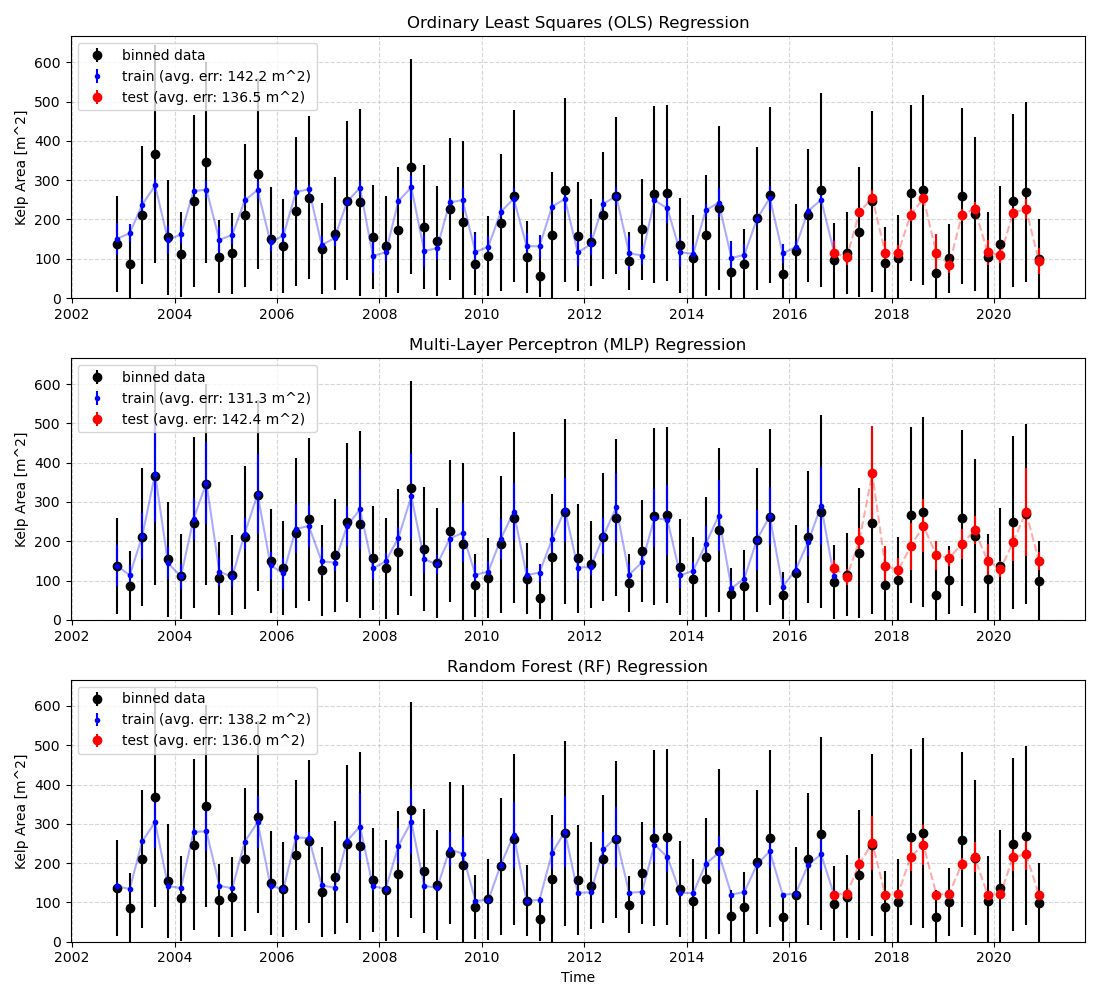
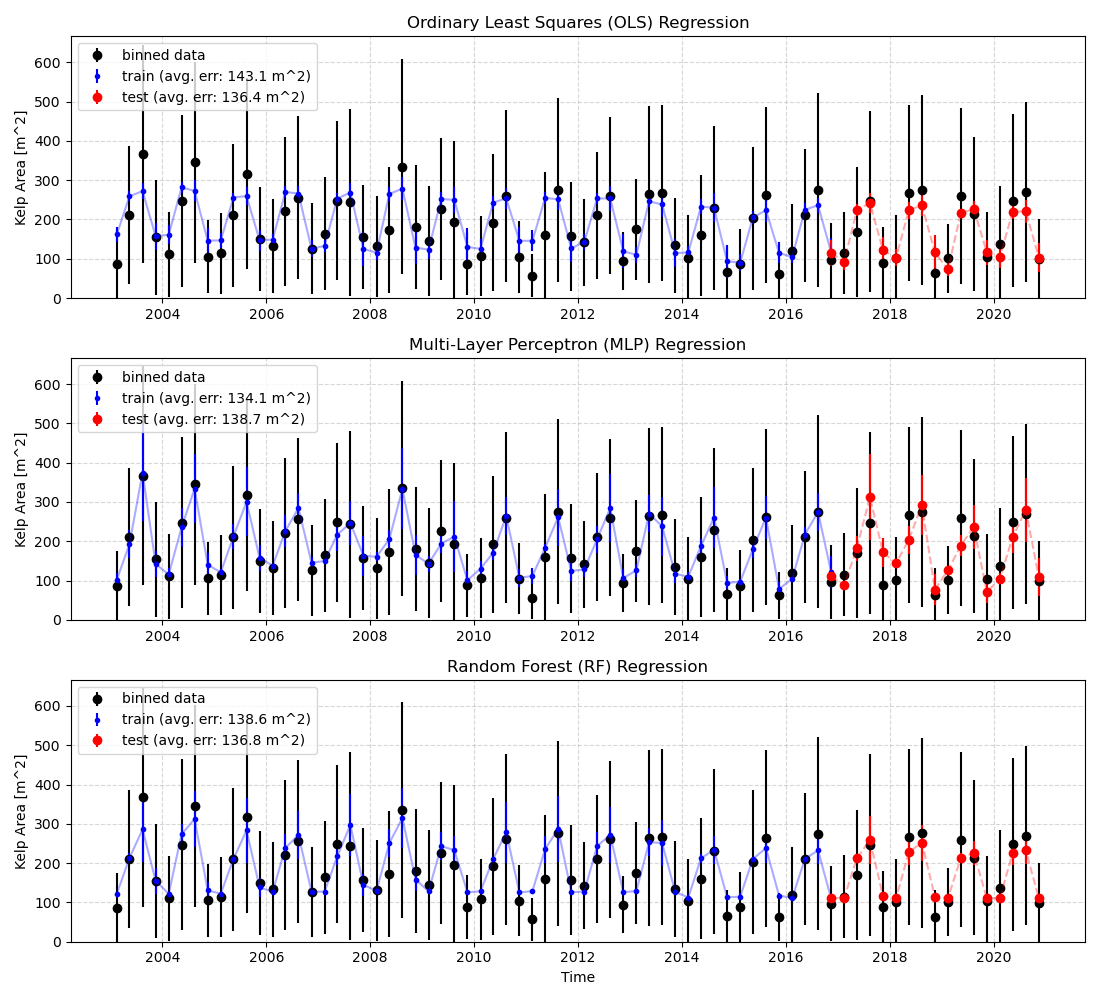
4 feature regressor

diff --git a/regressors_train.py b/regressors_train.py
@@ -39,10 +39,11 @@ if __name__ == "__main__":
         #np.cos(2*np.pi*time/365), # -1 - 1
         #data['elevation'],
         data['sunlight'],
-        data['lat'], # 25-45
-        data['lon'], # -130 - -115
-        data['temp'], 
+        #data['lat'], # 25-45
+        #data['lon'], # -130 - -115
+        #data['temp'], 
         data['temp_lag'],
+        data['temp_lag2'],
         np.ones(len(time)) # w_1 * x_1 + w_2 * x_2 + ... + w_n * x_n + b
     ]
 
@@ -50,17 +51,18 @@ if __name__ == "__main__":
         'time',
         #'elevation',
         'sunlight',
-        'lat',
-        'lon',
-        'temp',
+        #'lat',
+        #'lon',
+        #'temp',
         'temp_lag',
+        'temp_lag2',
         'bias'
     ]
 
     X = np.array(features).T
 
     # remove nans
-    nanmask = np.isnan(data['temp_lag']) | np.isnan(data['elevation'])
+    nanmask = np.isnan(data['temp_lag']) | np.isnan(data['elevation']) | np.isnan(data['temp_lag2'])
     X = X[~nanmask]
     y = y[~nanmask]
     time = time[~nanmask]
@@ -112,7 +114,7 @@ if __name__ == "__main__":
     Xp_test = (Xp_test - Xp_test.mean(0)) / Xp_test.std(0)
 
     # create multi-layer perceptron regressor
-    mlp = MLPRegressor(hidden_layer_sizes=(10,10,10), activation='relu', solver='adam', max_iter=60, verbose=True, alpha=0.0001, learning_rate='adaptive')
+    mlp = MLPRegressor(hidden_layer_sizes=(10,10,10), activation='relu', solver='adam', max_iter=50, verbose=True, alpha=0.0001, learning_rate='adaptive')
     y_mlp_train = mlp.fit(Xp_train, y_train).predict(Xp_train)
     abs_err_mlp_train = np.abs(y_train - y_mlp_train).mean()
     print(f"Avg. Absolute Error (MLP) train: {abs_err_mlp_train:.3f} m^2")
@@ -259,5 +261,22 @@ Mutual Information lat: 0.098
 Mutual Information lon: 0.103
 Mutual Information temp: 0.391
 Mutual Information temp_lag: 0.422
+------------------------------------
+
+Less features:
+
+Correlation Coefficient time: -0.042
+Correlation Coefficient sunlight: 0.302
+Correlation Coefficient temp_lag: -0.314
+Correlation Coefficient temp_lag2: -0.172
+Mutual Information time: 0.155
+Mutual Information sunlight: 0.186
+Mutual Information temp_lag: 0.420
+Mutual Information temp_lag2: 0.401
+Feature Importances time: 0.020
+Feature Importances sunlight: 0.702
+Feature Importances temp_lag: 0.194
+Feature Importances temp_lag2: 0.085
     """
+
 

diff --git a/README.md b/README.md
@@ -134,18 +134,33 @@ One thing these tables don't show is the direction of the correction but from th
 
 We test three different regression algorithms to predict the abundance of kelp: ordinary least-squares, multi-layer perceptron and random forest. The regressors are trained using the features from `kelp_metrics.pkl` and the target variable is the abundance of kelp. The regressors are trained using the `regressors_train.py` script.
 
-| Variable | Correlation Coefficient | Mutual Information | Feature Importance |
-| -------- | ----------------------- | ------------------ | ------------------ |
-| Time             |  -0.032 | 0.155 | 0.059 |
-| Elevation [m]    | 0.040   | 0.013 | 0.000 |
-| Sunlight [day]   | 0.304   | 0.184 | 0.739 |
-| Latitude         | 0.116   | 0.098 | 0.000 |
-| Longitude        | -0.164  | 0.103 | 0.004 |
-| Temperature      | 0.005   | 0.391 | 0.000 |
-| Temperature Lag  | -0.313  | 0.422 | 0.198 |
+|                      | Correlation Coefficient | Mutual Information | Feature Importance |
+| -------------------- | ----------------------- | ------------------ | ------------------ |
+| Time                 |  -0.032 | 0.155 | 0.027 |
+| Elevation [m]        | 0.040   | 0.013 | 0.000 |
+| Sunlight [day]       | 0.304   | 0.186 | 0.690 |
+| Latitude             | 0.116   | 0.098 | 0.000 |
+| Longitude            | -0.164  | 0.103 | 0.000 |
+| Temperature          | 0.005   | 0.391 | 0.000 |
+| Temperature Lag      | -0.314  | 0.420 | 0.199 |
+| Temperature Lag 2    | -0.172  | 0.401 | 0.084 |
 
-Even though the parameters individually may be correlated to the amount of kelp, the random forest regression model suggests only the amount of sunlight, temperature from the previous quarter and time are important for making a prediction.
 
+Even though the parameters individually may be correlated to the amount of kelp, the random forest regression model suggests only the amount of sunlight, temperature from the previous quarter and time are important for making a prediction. Making another model with only these features may be more accurate than includes features like elevation, latitude, longitude, etc.
+
+|                         | Correlation Coefficient | Mutual Information | Feature Importances |
+|-------------------------|-------------------------|--------------------|---------------------|
+| Time                    | -0.042                  | 0.155              | 0.020               |
+| Sunlight [day]          | 0.304                   | 0.186              | 0.702               |
+| Temperature Lag         | -0.314                  | 0.420              | 0.194               |
+| Temperature Lag 2       | -0.172                  | 0.401              | 0.085               |
+
+Avg. Absolute Error (OLS) Train: 142.281 m^2
+Avg. Absolute Error (OLS) Test: 139.645 m^2
+Avg. Absolute Error (MLP) train: 134.895 m^2 (50)
+Avg. Absolute Error (MLP) test: 148.805 m^2
+Avg. Absolute Error (RF) train: 137.852 m^2
+Avg. Absolute Error (RF) test: 139.215 m^2
 
 # Datasets
 
@@ -186,4 +201,6 @@ NOAA - https://www.ncei.noaa.gov/products/coastal-relief-model (Southern Califor
 
 ## To Do
 - Get future temperature data + make predictions using best regressor
-- Update CMDA server
+- Update CMDA server with scripts from github
+- Fit trend to Kelp vs. lag-temperature, estimate temperature at which kelp = 0
+- Create new regression model with time, sunlight, temp_lag and temp_lag2
